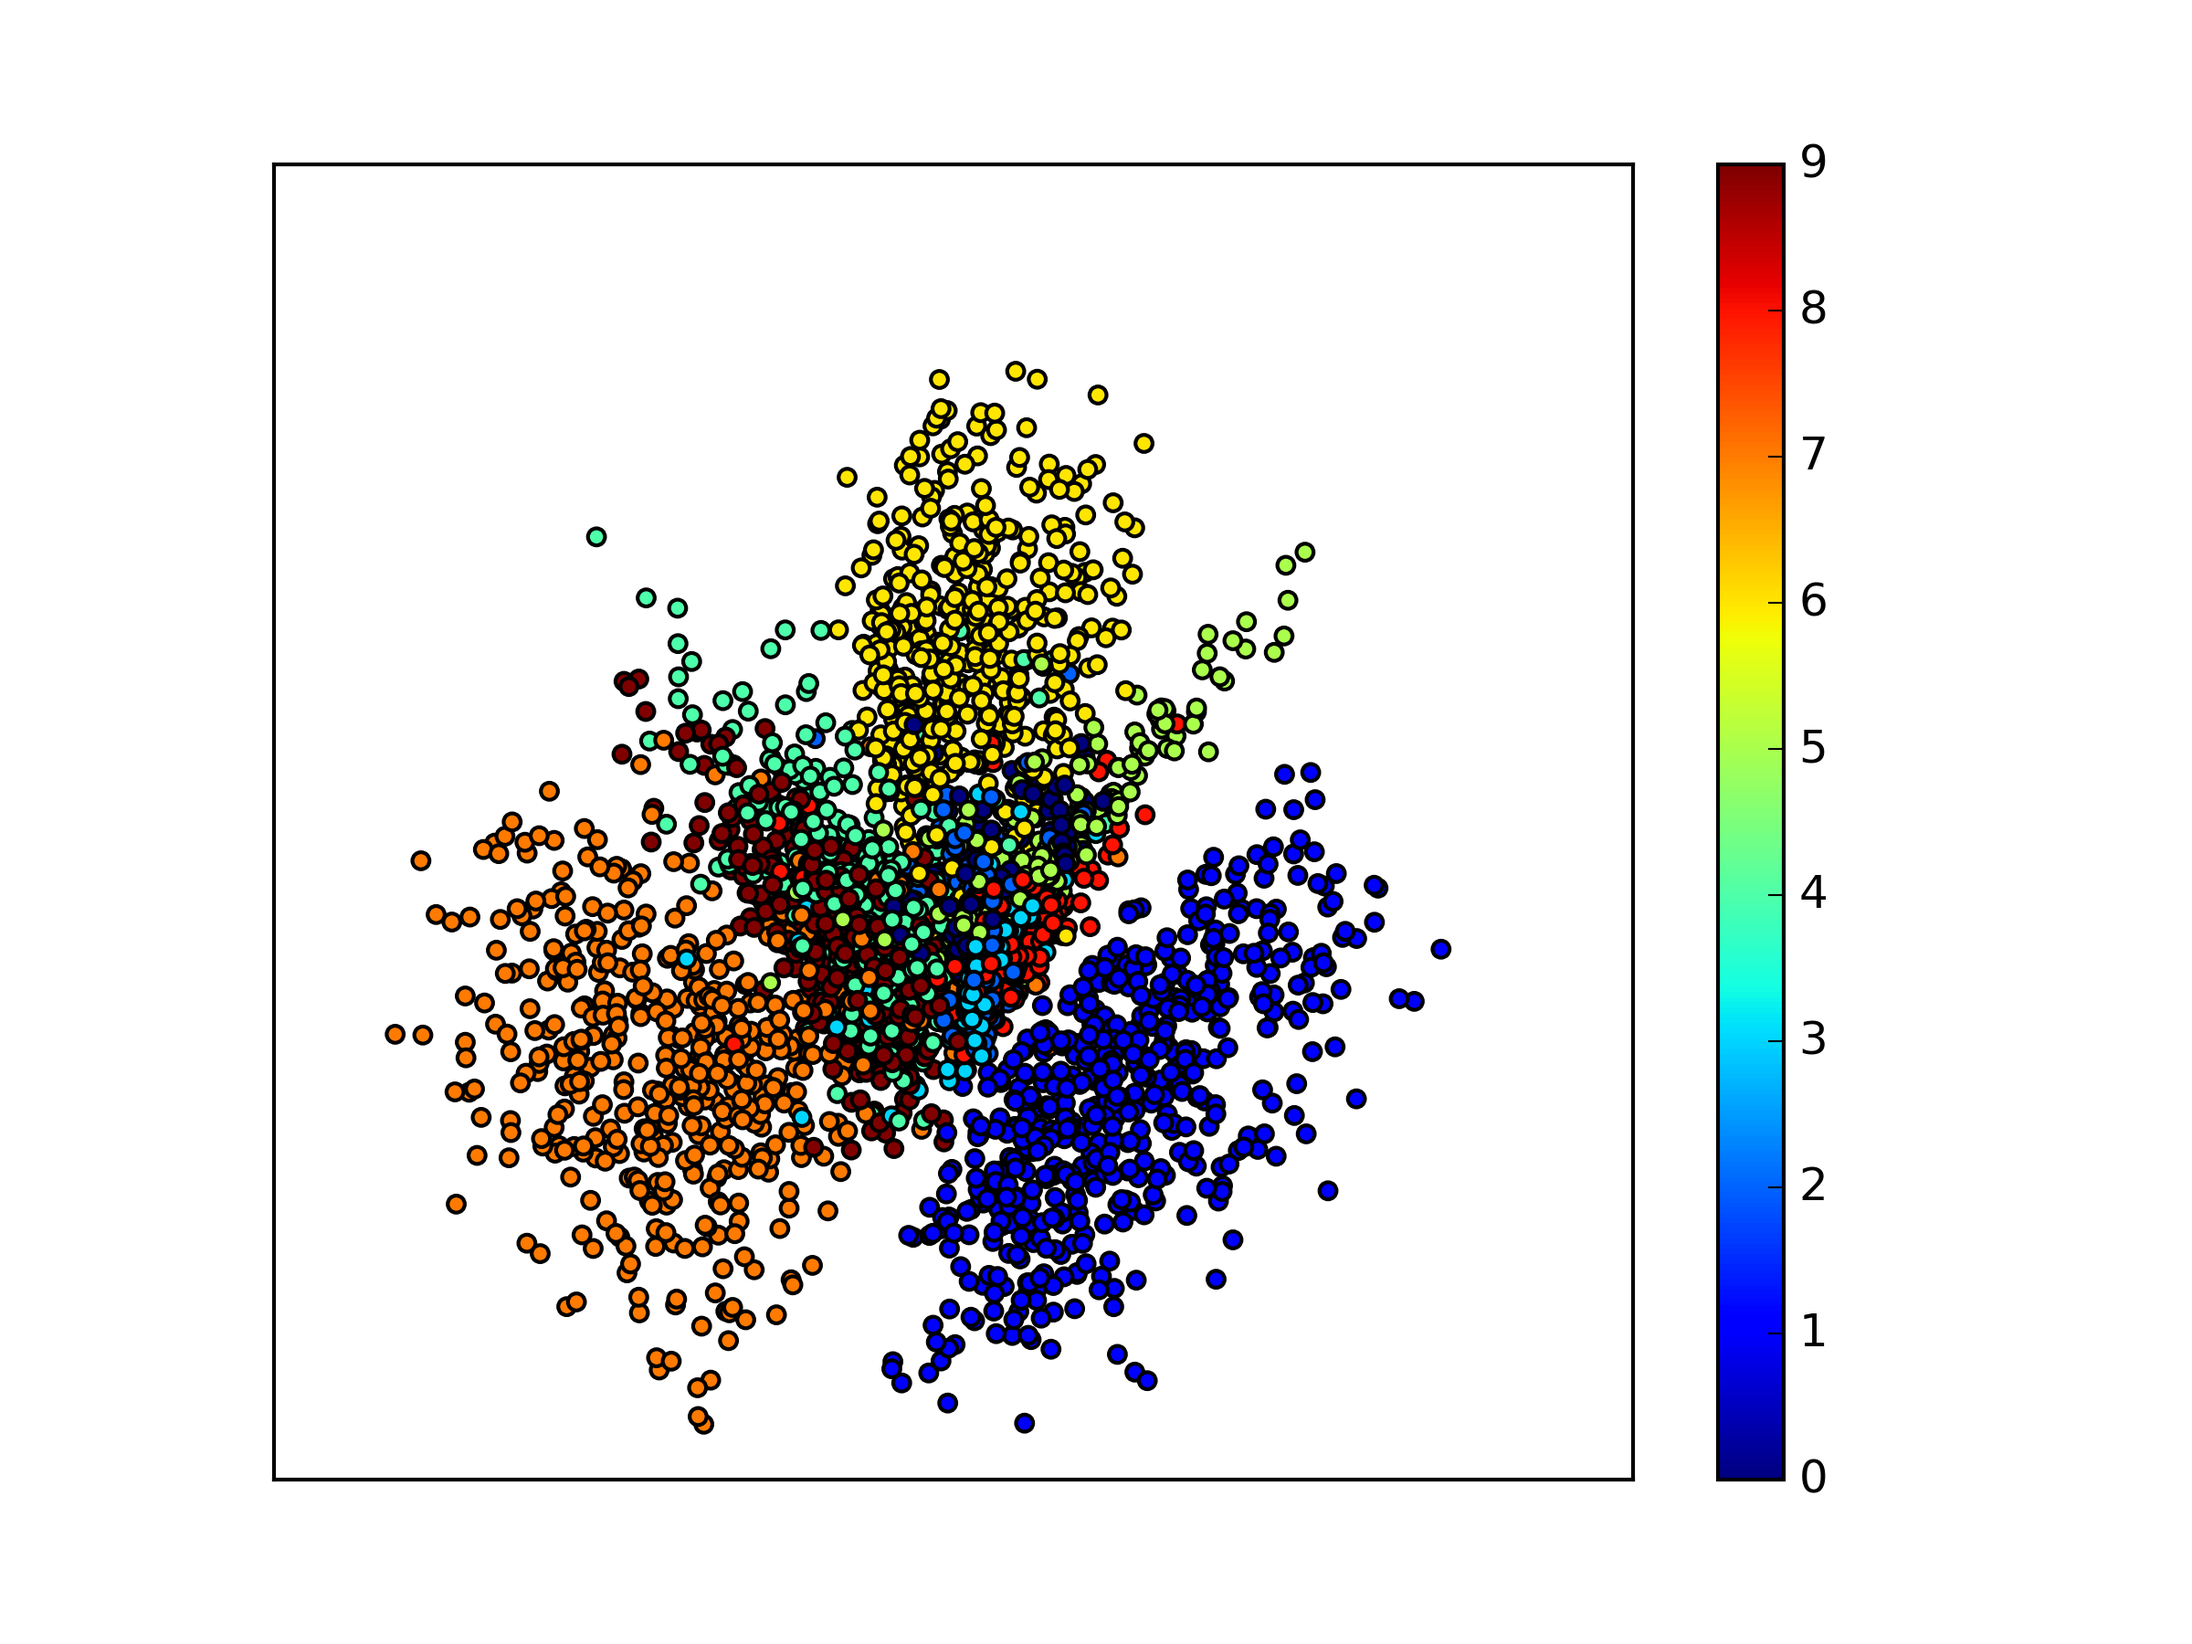
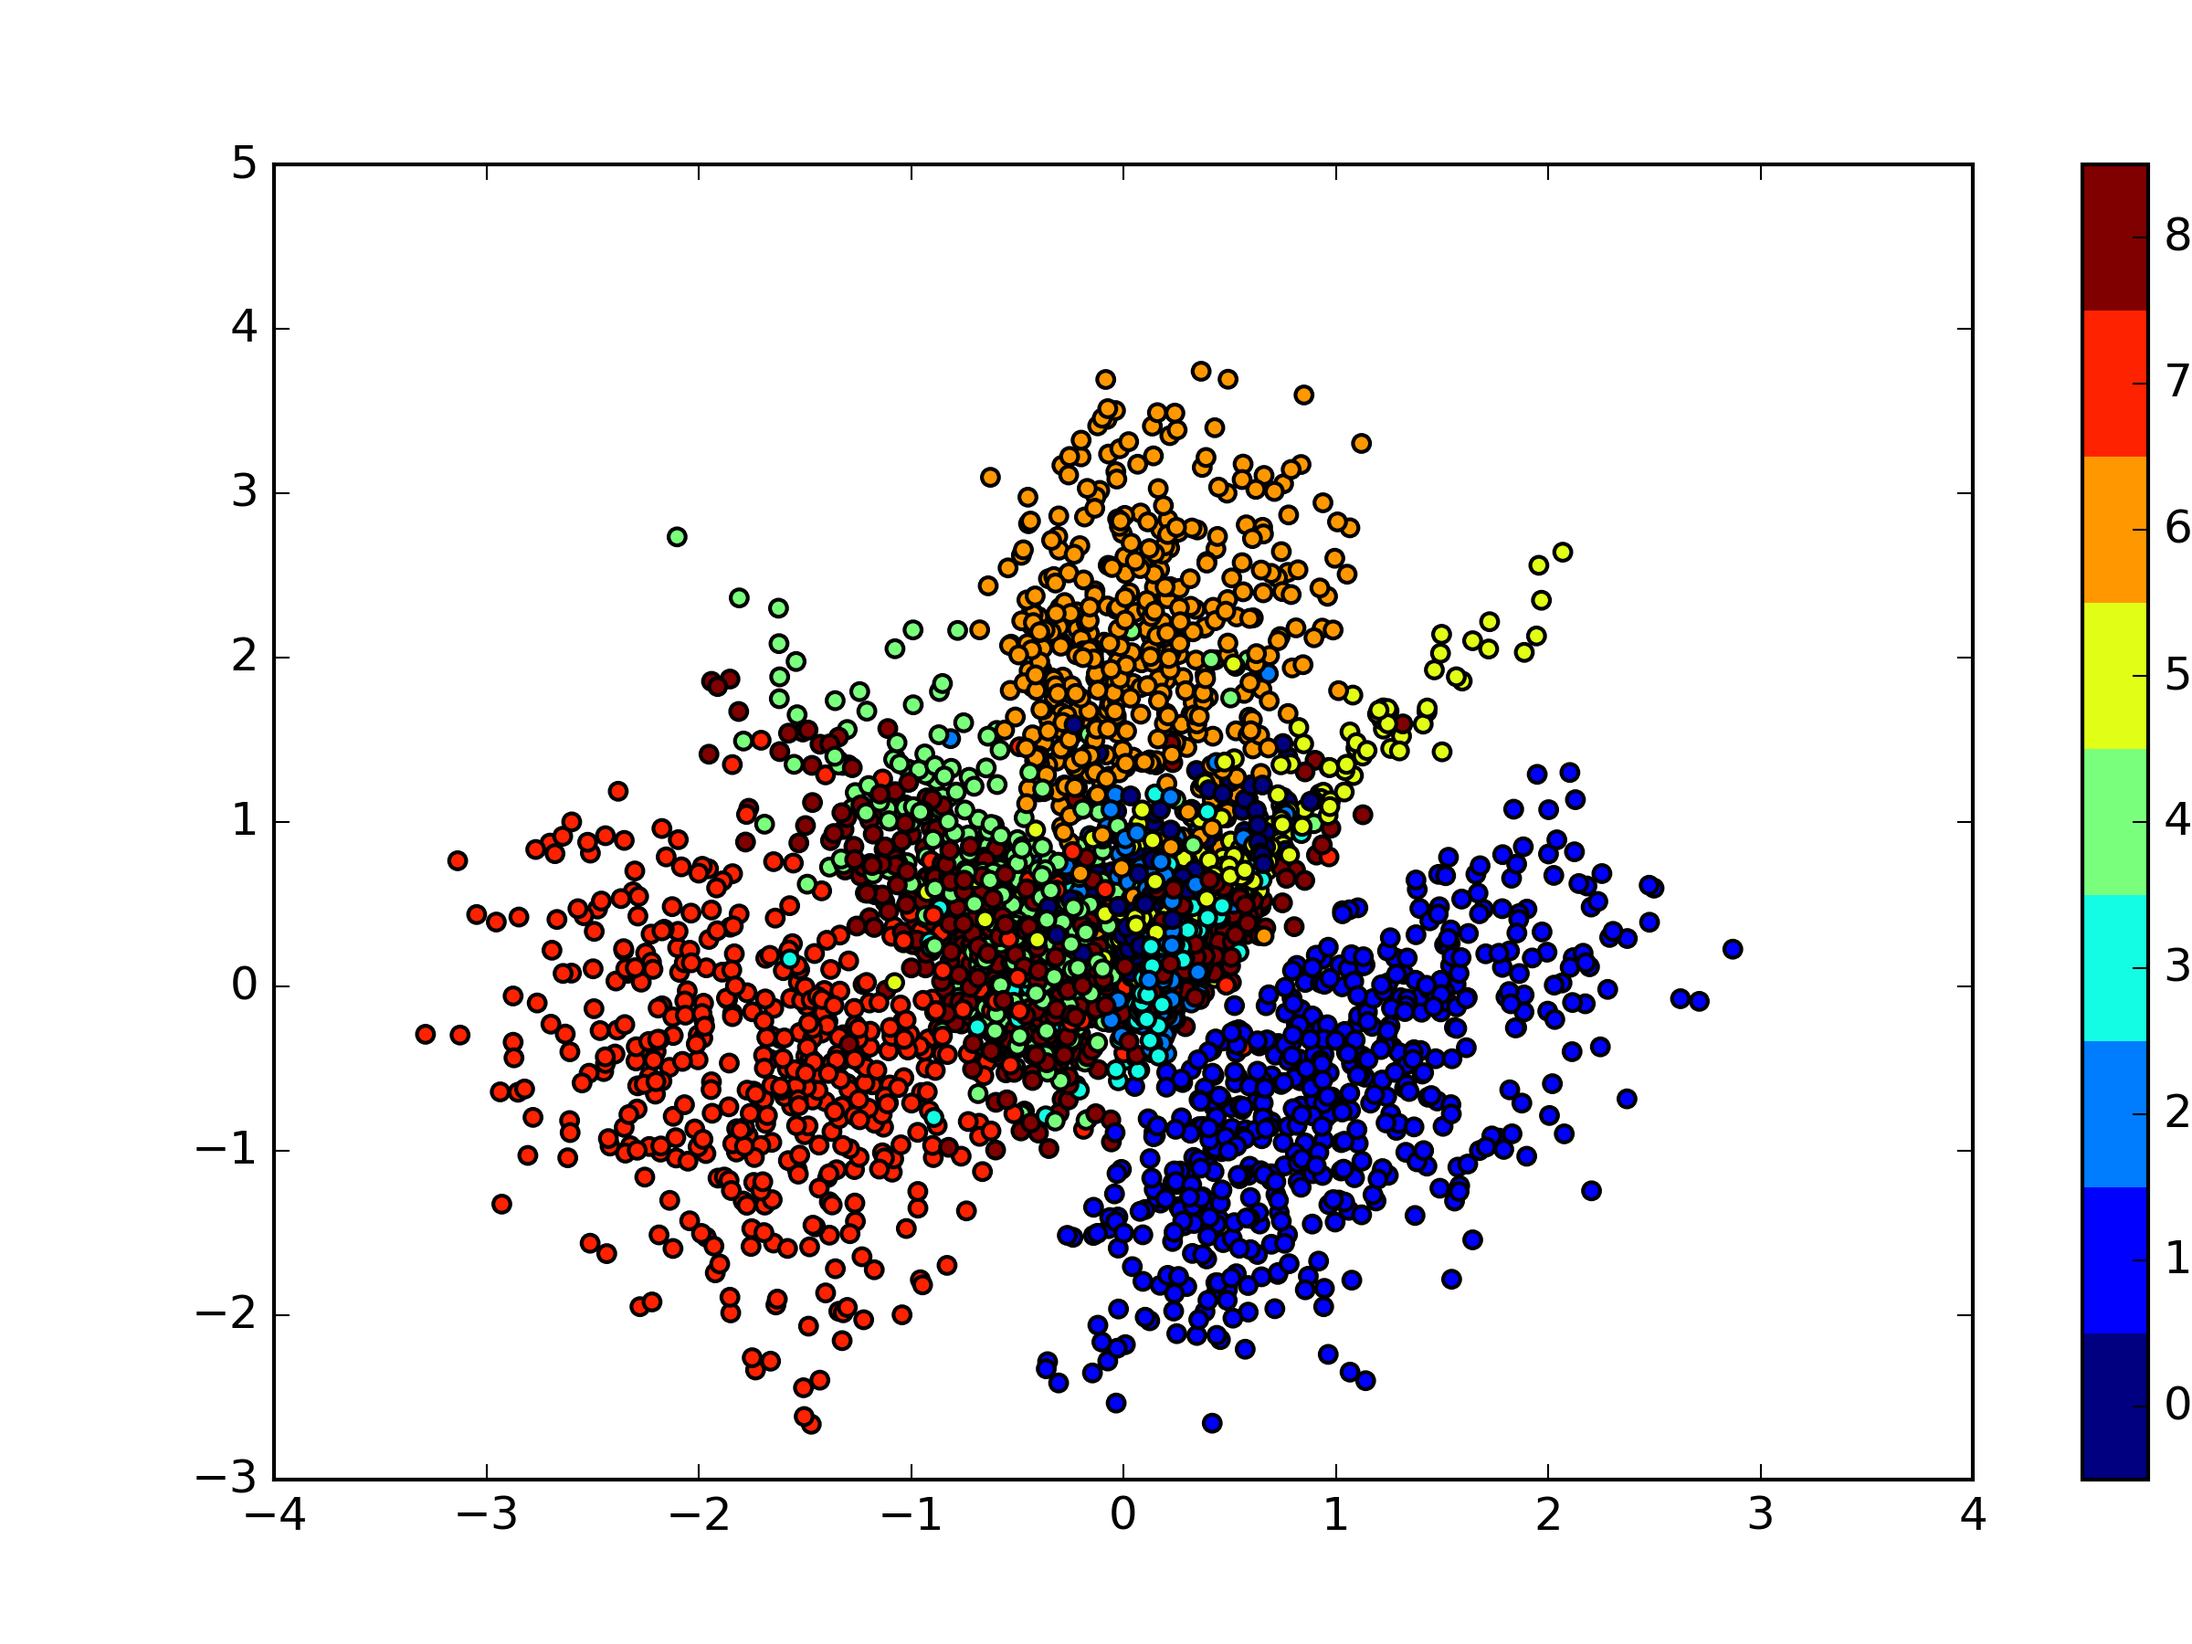
Discrete colors

diff --git a/vae_vis.py b/vae_vis.py
@@ -1,5 +1,6 @@
 import numpy as np
 import matplotlib.pyplot as plt
+import matplotlib as mpl
 import vae_save
 mnist=vae_save.mnist
 font=18
@@ -62,12 +63,30 @@ for dim in [2,50]:
     indices=np.argsort(covar_dims)
     x_sample2, y_sample2 = mnist.test.next_batch(5000)
     z_mu = vae.transform(x_sample2)
-    plt.figure(figsize=(8, 6)) 
-    scat=plt.scatter(z_mu[:, 1], z_mu[:, 0], c=np.argmax(y_sample2, 1))
-    scat.axes.get_xaxis().set_visible(False)
-    scat.axes.get_yaxis().set_visible(False)
-    plt.colorbar()
+    fig, ax = plt.subplots(1,1, figsize=(8,6))
+    #plt.figure(figsize=(8, 6))
+    # define the colormap
+    cmap = plt.cm.jet
+    # extract all colors from the .jet map
+    cmaplist = [cmap(i) for i in range(cmap.N)]
+    # create the new map
+    cmap = cmap.from_list('Custom cmap', cmaplist, cmap.N)
+    # define the bins and normalize
+    ticks = np.linspace(0.5,9.5,10)
+    bounds = np.linspace(0,9,10)
+    norm = mpl.colors.BoundaryNorm(bounds, cmap.N)
+    # make the scatter
+    scat = ax.scatter(z_mu[:, 1], z_mu[:, 0],c=np.argmax(y_sample2, 1),cmap=cmap, norm=norm)
+    # create a second axes for the colorbar
+    ax2 = fig.add_axes([0.95, 0.1, 0.03, 0.8])
+    cb = mpl.colorbar.ColorbarBase(ax2, cmap=cmap, norm=norm, spacing='proportional', ticks=ticks, boundaries=bounds, format='%1i')
+    # scat=plt.scatter(z_mu[:, 1], z_mu[:, 0], c=np.argmax(y_sample2, 1))
+    # scat.axes.get_xaxis().set_visible(False)
+    # scat.axes.get_yaxis().set_visible(False)
+    # plt.colorbar()
+    #plt.tight_layout()
     plt.savefig('plots/img/vis_scatter%s.png' % dim,dpi=300)
+    exit(0)
     if dim==2:
         lattice(mean_dims,[0,1],1,2)
     elif dim==50:
